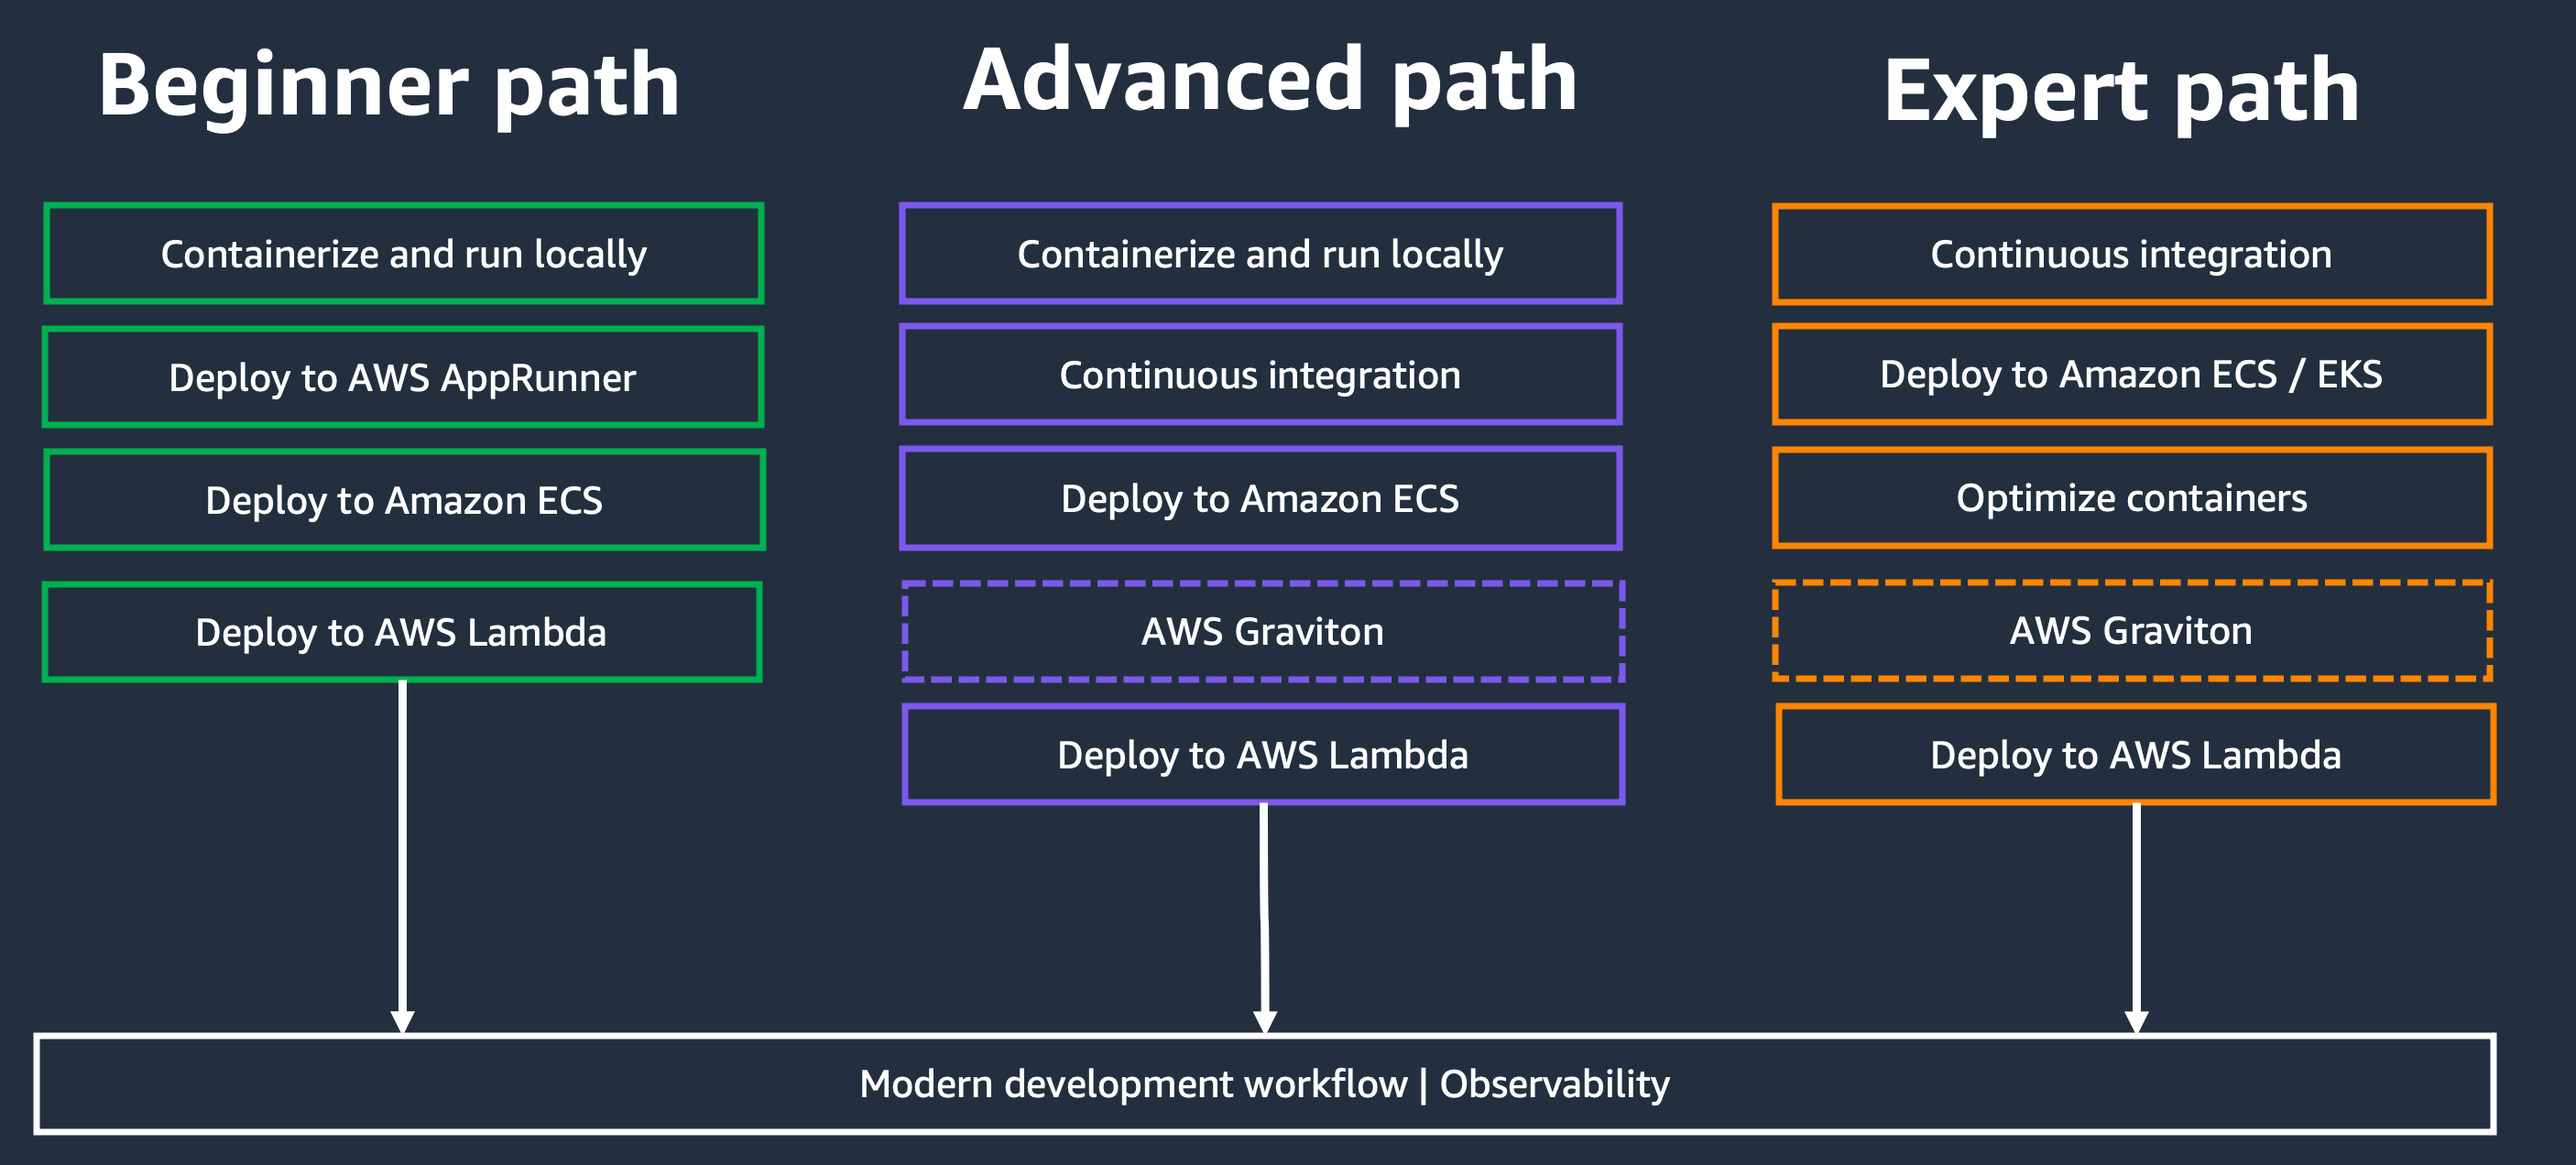
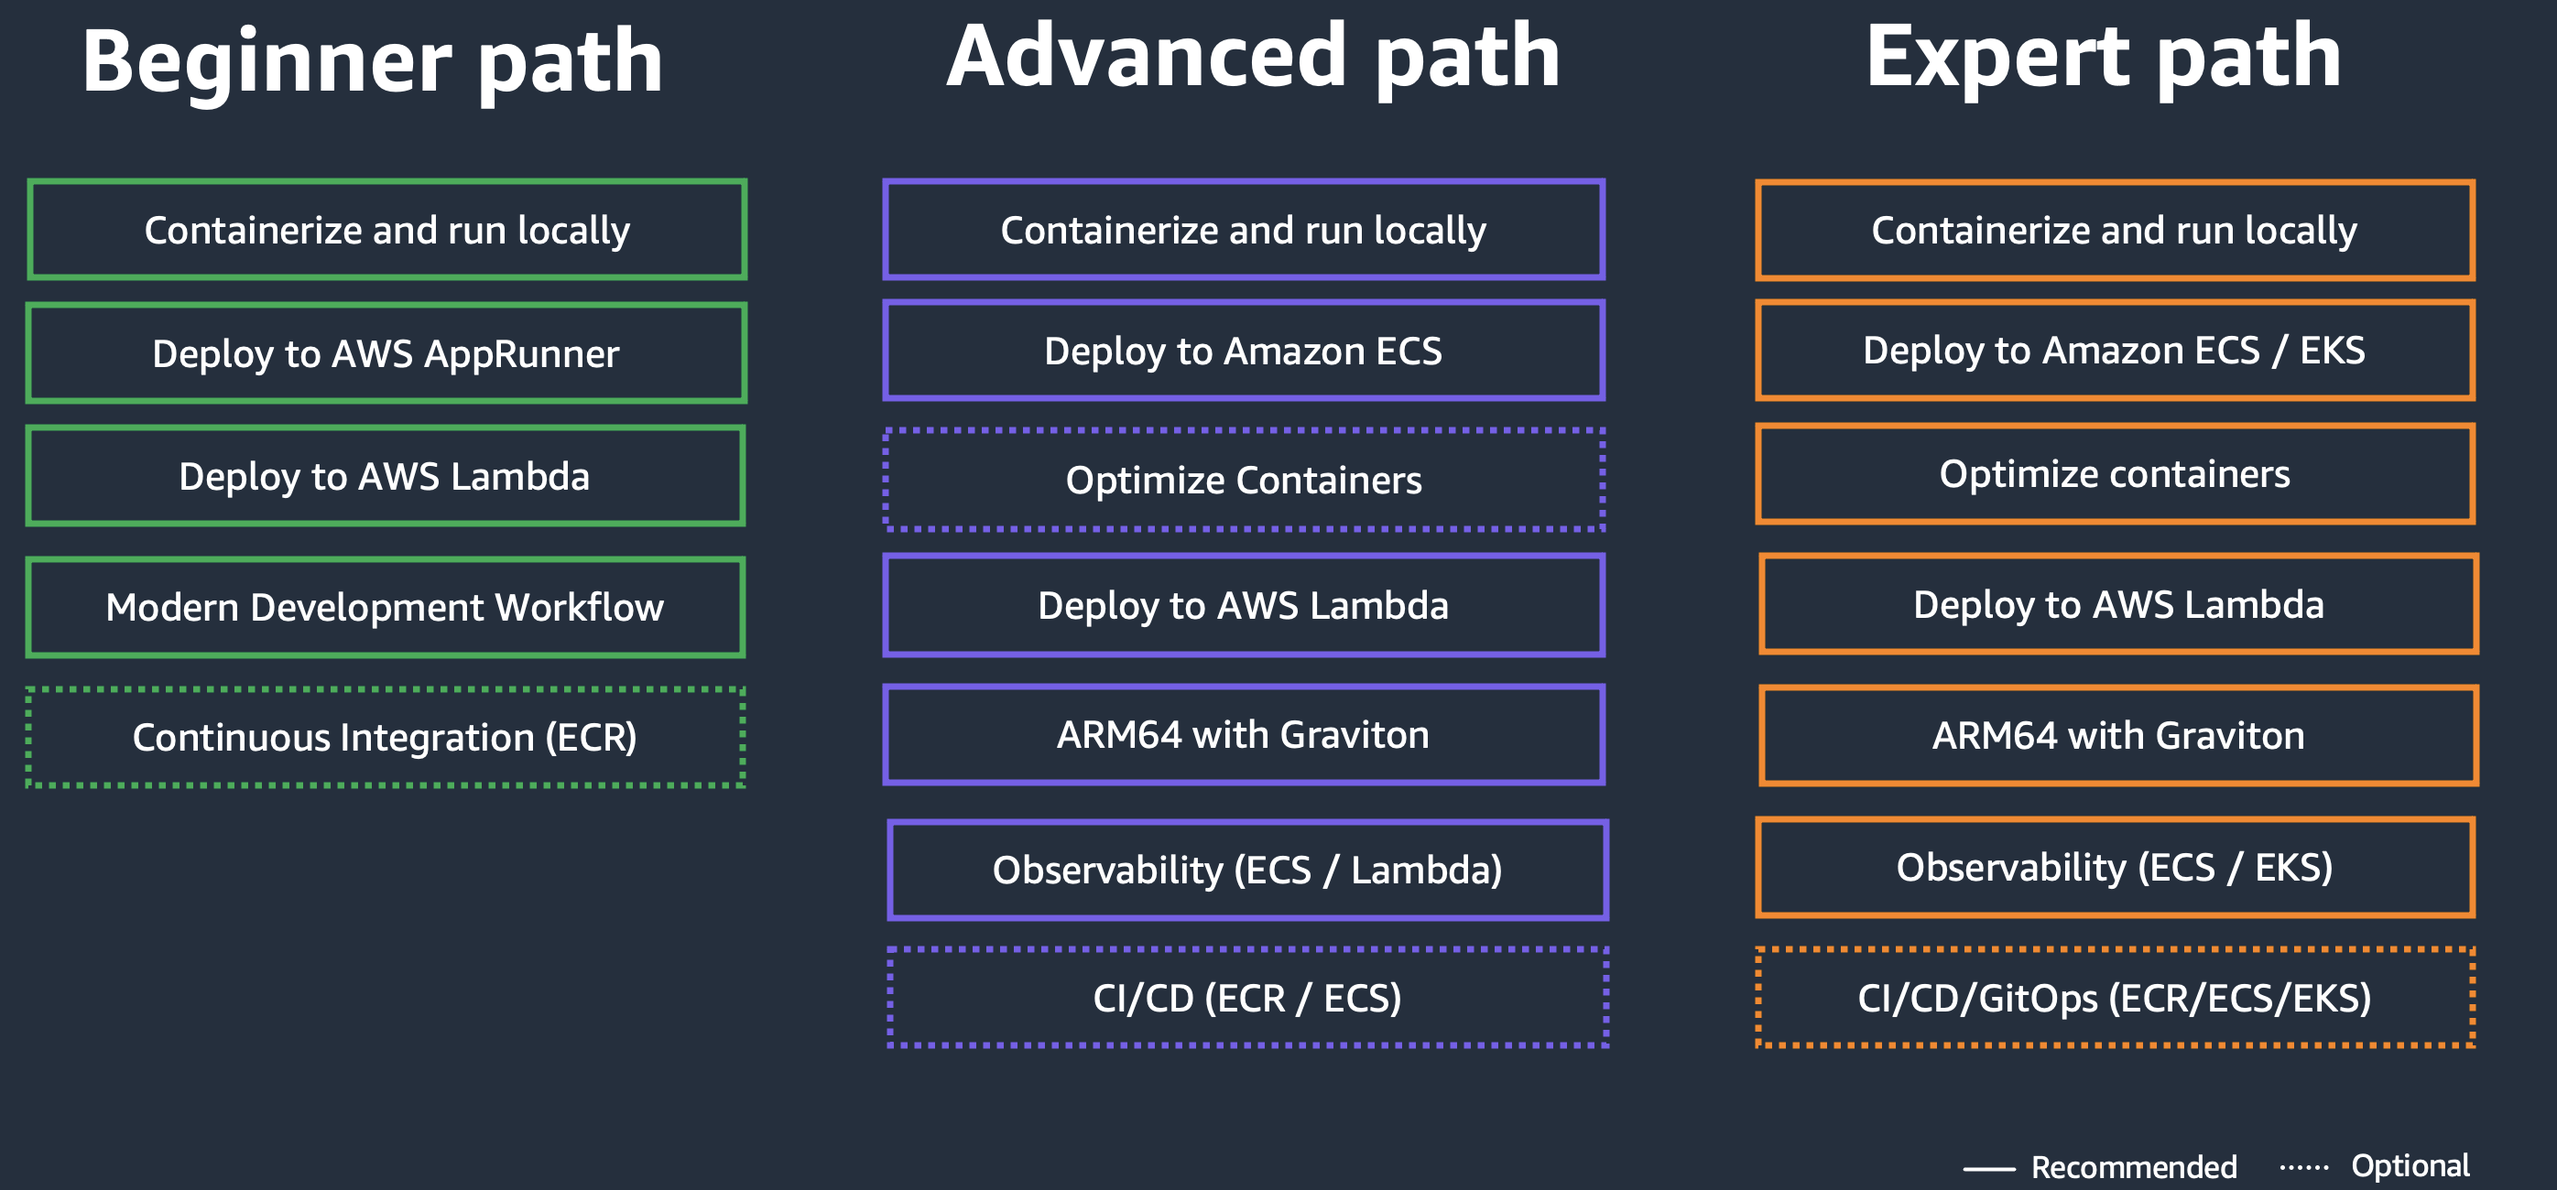
Added paths

Changed region(s): [[0.0, 0.0, 0.9971, 1.0], [0.0, 0.0307, 0.3116, 0.6745]]

diff --git a/README.md b/README.md
@@ -14,60 +14,63 @@ The workshop is structured in multiple independent modules that can be chosen in
 
 ![Java on AWS](resources/paths.png)
 
-#### Containerize your Java application (30 minutes)
-Build a container image locally using Docker
-Run and test your Java application container locally
-Optimizing your Dockerfile with a multi-stage build
+#### Containerize and run locally (30 minutes)
 
-#### Continuous Integration (CI) (30 minutes)
-Create a Continuous Integration (CI) pipeline with AWS CodePipeline, AWS CodeCommit and AWS CodeBuild
-Push you source code to AWS CodeCommit
-Automatically build multi-arch container images (x86 + arm)
-Push container images to Amazon Elastic Container Registry (ECR)
-The pipeline and images in Amazon ECR will be used throughout the other modules.
+- Build a container image locally using Docker.
+- Run and test your Java application container locally and optimize your Dockerfile with a multi-stage build.
+- Push container images to Amazon Elastic Container Registry (ECR).
 
 #### Deploy a container image to AWS App Runner (30 minutes)
 
-Deploy your Java application in the cloud
-Use either the AWS CLI or the AWS Console for the deployment
-Test your Java app running on AWS App Runner
+- Deploy your Java application in the cloud.
+- Use the AWS Console for the deployment.
+- Test your Java app running on AWS App Runner.
 
 #### Deploy a container image to Amazon ECS (30 minutes)
 
-
-Deploy your Java application in the cloud with more infrastructure control
-Use the AWS Console for the deployment
-Test your Java app running on Amazon ECS
+- Deploy your Java application in the cloud with more infrastructure control.
+- Use the AWS Console for the deployment.
+- Test your Java app running on Amazon ECS.
 
 #### Deploy a container image to Amazon EKS (60 minutes)
 
-Create a Kubernetes Cluster on AWS using the AWS CLI with AWS CDK
-Deploy and test Java App with Amazon EKS
+- Create a Kubernetes Cluster on AWS using the AWS CLI
+- Deploy and test the Java application with Amazon EKS.
 
 #### Optimize Containers (30 minutes)
 
-Optimize your Dockerfile, build your own optimized JVM
-or go native with GraalVM and Deploy Java App to your deployment option of choice and test
+- Optimize your Dockerfile, build your own optimized JVM or go native with GraalVM
 
 #### Deploy to AWS Lambda (60 minutes)
 
-Migrate your existing Java application to run on AWS Lambda
-Leverage AWS Lambda SnapStart to drastically reduce Cold-Start
-Build new event driven AWS Lambda function in plain Java
+- Migrate your existing Java application to run on AWS Lambda
+- Leverage AWS Lambda SnapStart to drastically reduce Cold-Starts
+- Build a new event driven AWS Lambda function in plain Java.
+
+#### ARM64 with AWS Graviton  (30 minutes)
+
+AWS Graviton processors are designed by AWS to deliver the best price performance for your cloud workloads.
+- Understand how to build multi-arch images and leverage AWS Graviton on different compute platforms.
+
+#### Observability (60+ minutes)
+
+- Leverage native AWS services for logging, metrics & tracing.
+- Setting up AWS Distro for OpenTelemetry Collector.
+- Use manual and automatic instrumentation
+
+
+#### CI/CD/Gitops (60+ minutes)
+
+- Push you source code to AWS CodeCommit.
+- Create a Continuous Integration (CI) pipeline with AWS CodePipeline, AWS CodeCommit and AWS CodeBuild.
+- Leverage CodeDeploy for automatically updating your Amazon ECS Service
+- User a GitOps approach with Flux to deploy to Amazon EKS
+- Automatically build multi-arch container images (x86 + arm)
 
 #### Modern development workflow  (20 minutes)
 
-Leverage the power of Generative AI on AWS  and use Amazon CodeWhisperer in your development workflow.
-
-#### ARM64 with AWS Graviton  (45 minutes)
-
-AWS Graviton processors are designed by AWS to deliver the best price performance for your cloud workloads. Understand how to build multi-arch images and leverage AWS Graviton on different compute platforms.
-
-#### Observability (60 minutes)
-
-Leverage native AWS services for logging, metrics & tracing
-Setting up AWS Distro for OpenTelemetry Collector
-Use manual and automatic instrumentation
+- Leverage the power of Generative AI on AWS
+- Use Amazon CodeWhisperer in your development workflow.
 
 ## Security
 
